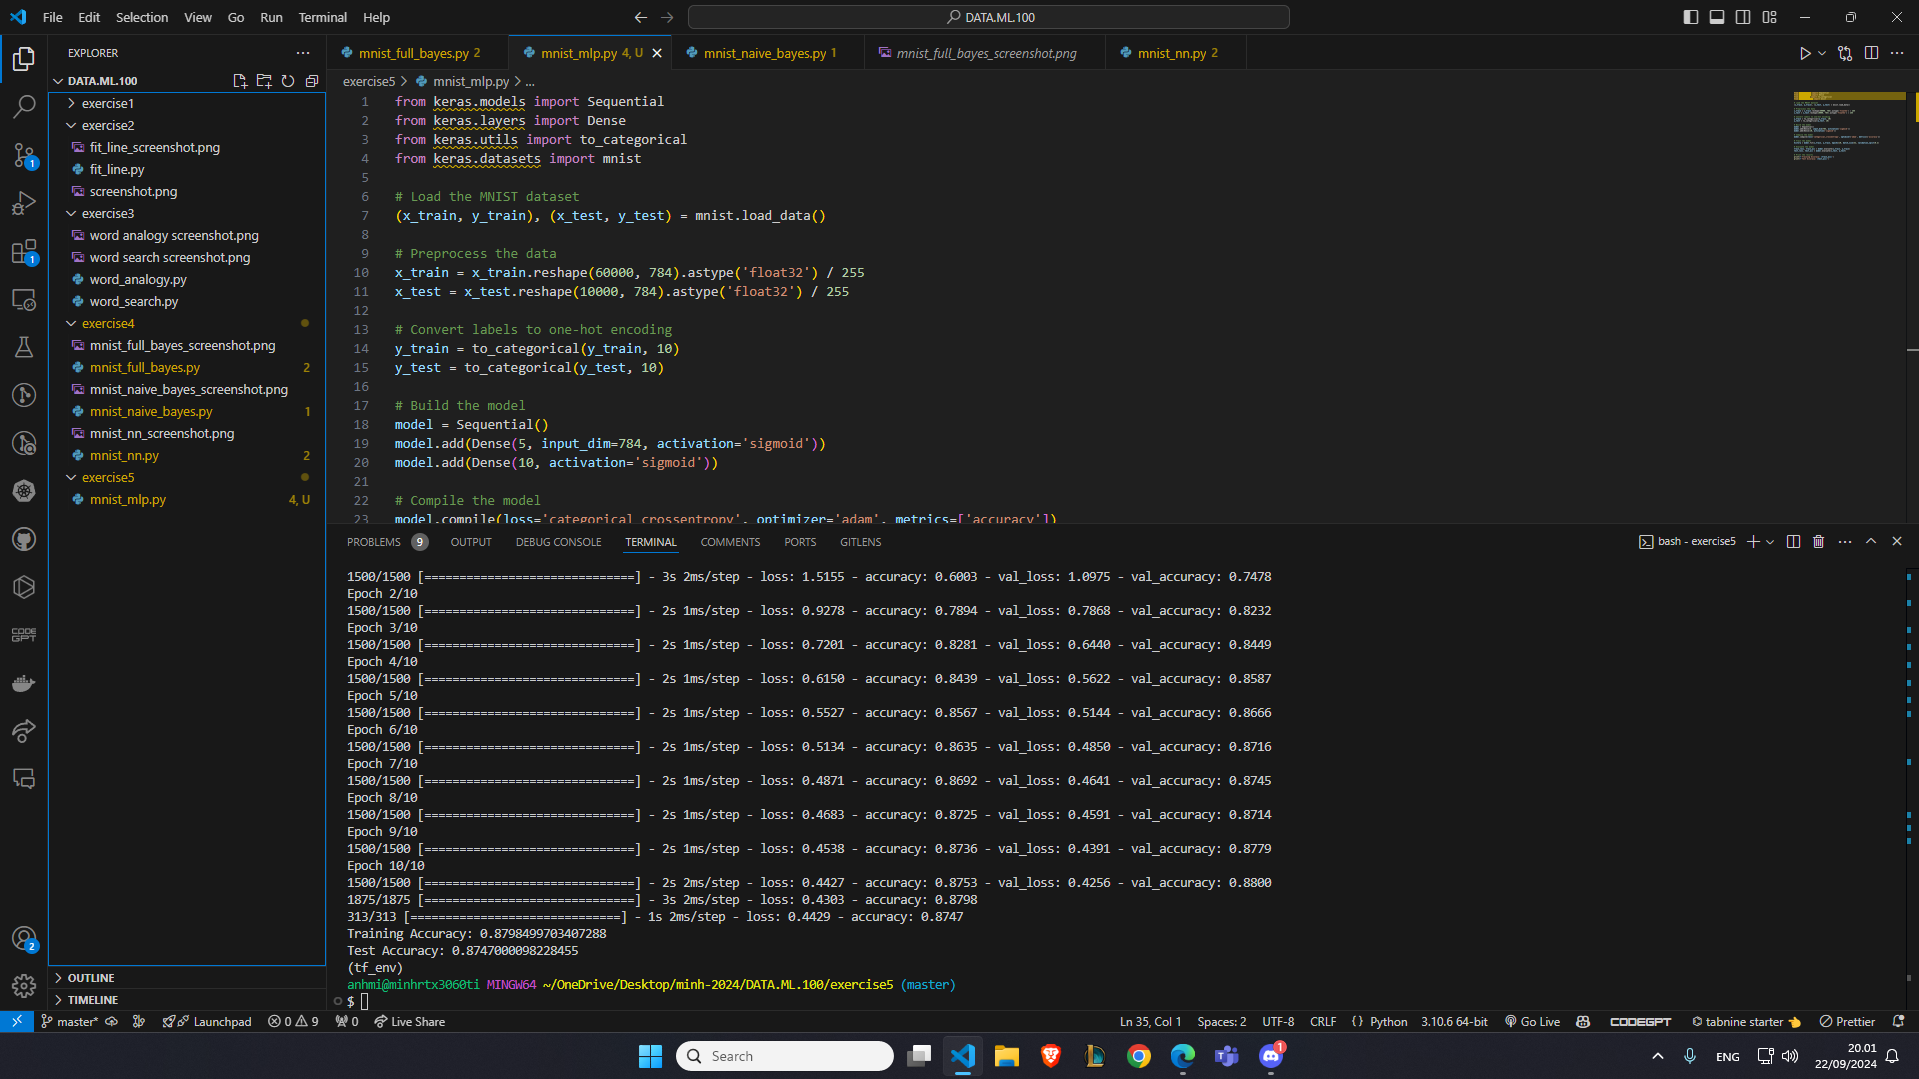
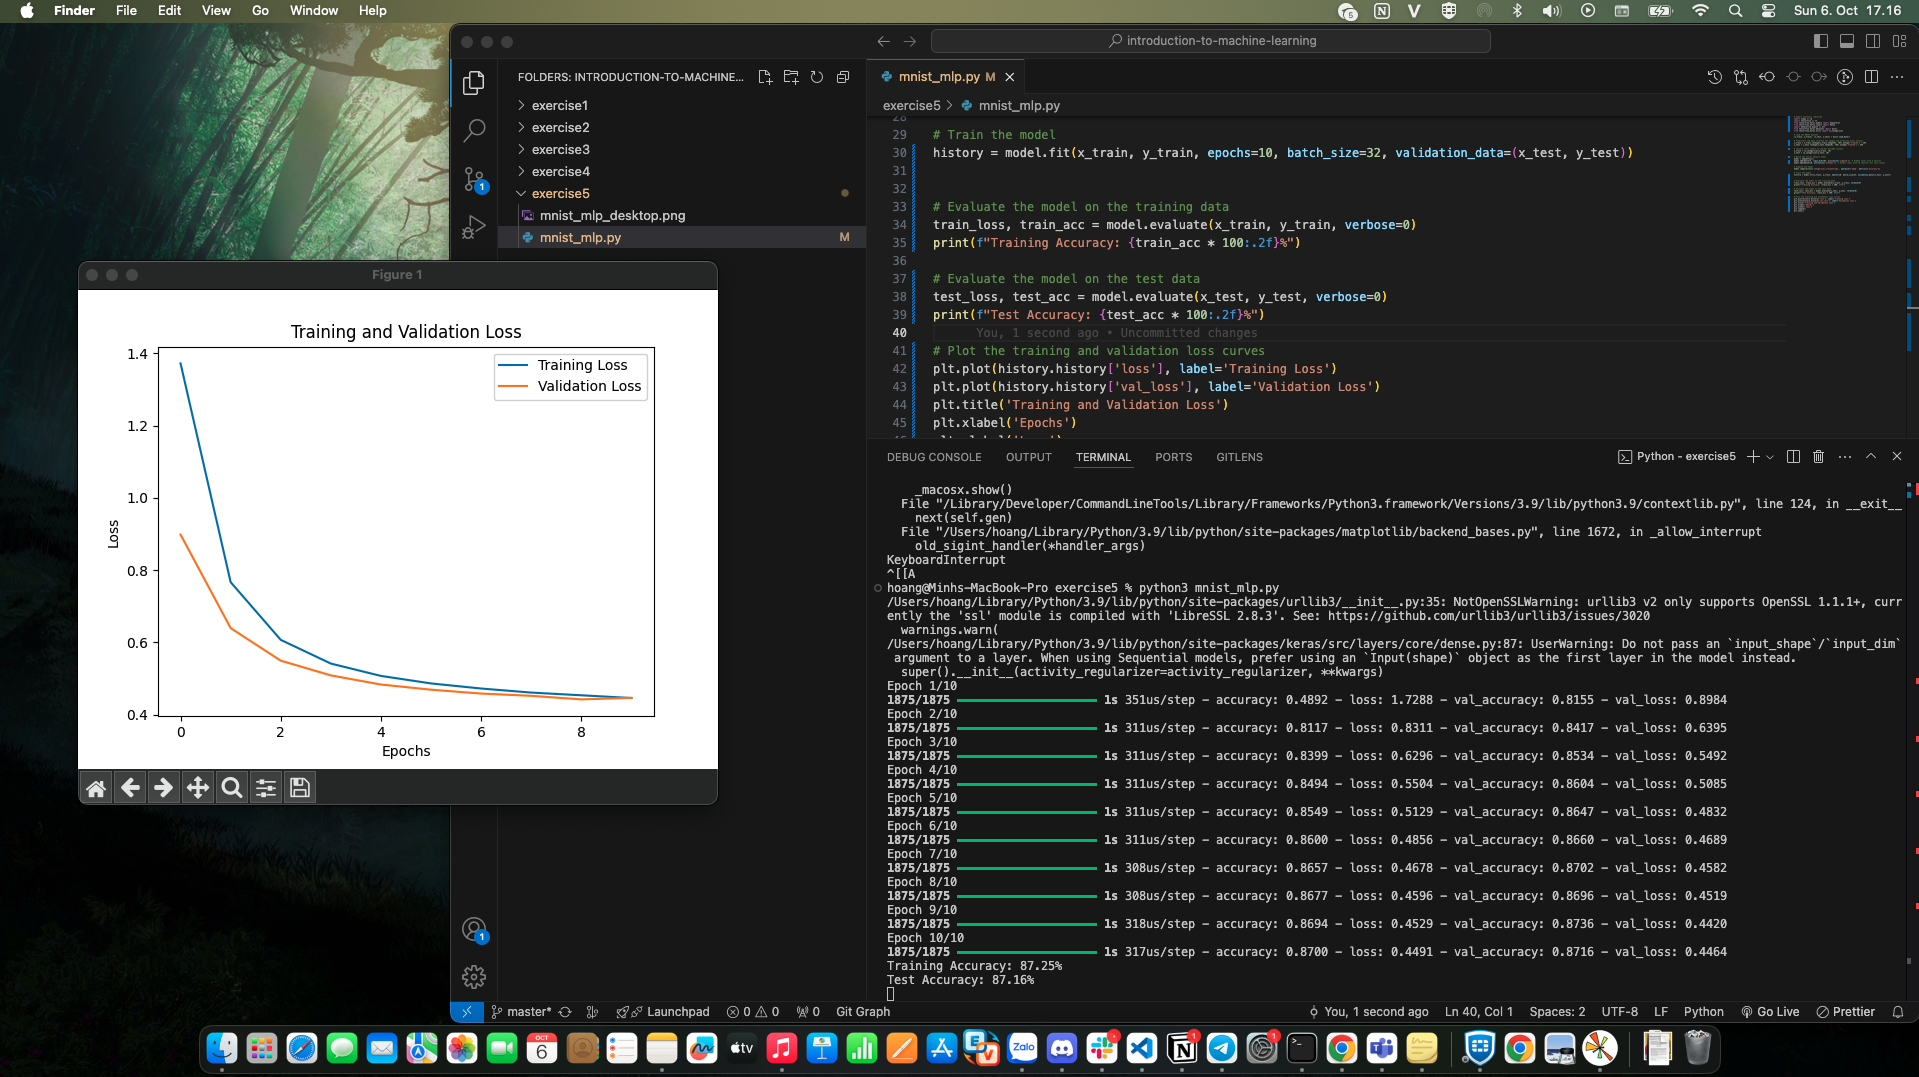
updated exercise 5

diff --git a/exercise5/mnist_mlp.py b/exercise5/mnist_mlp.py
@@ -1,34 +1,48 @@
-from keras.models import Sequential
-from keras.layers import Dense
-from keras.utils import to_categorical
-from keras.datasets import mnist
+# Import necessary libraries
+import numpy as np
+import tensorflow as tf
+from tensorflow.keras.models import Sequential
+from tensorflow.keras.layers import Dense
+import matplotlib.pyplot as plt
+from tensorflow.keras.datasets import mnist
+from tensorflow.keras.utils import to_categorical
 
 # Load the MNIST dataset
 (x_train, y_train), (x_test, y_test) = mnist.load_data()
 
-# Preprocess the data
-x_train = x_train.reshape(60000, 784).astype('float32') / 255
-x_test = x_test.reshape(10000, 784).astype('float32') / 255
+# Preprocess the data (flatten the images and normalize pixel values)
+x_train = x_train.reshape(x_train.shape[0], 784).astype('float32') / 255
+x_test = x_test.reshape(x_test.shape[0], 784).astype('float32') / 255
 
-# Convert labels to one-hot encoding
+# Convert class labels to one-hot encoded vectors
 y_train = to_categorical(y_train, 10)
 y_test = to_categorical(y_test, 10)
 
-# Build the model
+# Build the neural network model
 model = Sequential()
-model.add(Dense(5, input_dim=784, activation='sigmoid'))
-model.add(Dense(10, activation='sigmoid'))
+model.add(Dense(5, input_dim=784, activation='sigmoid'))  # Hidden layer with 5 neurons
+model.add(Dense(10, activation='softmax'))  # Output layer with 10 neurons (for each class)
 
 # Compile the model
 model.compile(loss='categorical_crossentropy', optimizer='adam', metrics=['accuracy'])
 
 # Train the model
-history = model.fit(x_train, y_train, epochs=10, batch_size=32, validation_split=0.2)
+history = model.fit(x_train, y_train, epochs=10, batch_size=32, validation_data=(x_test, y_test))
 
-# Evaluate the model
-train_loss, train_acc = model.evaluate(x_train, y_train)
-test_loss, test_acc = model.evaluate(x_test, y_test)
 
-# Print the results
-print(f'Training Accuracy: {train_acc}')
-print(f'Test Accuracy: {test_acc}')
+# Evaluate the model on the training data
+train_loss, train_acc = model.evaluate(x_train, y_train, verbose=0)
+print(f"Training Accuracy: {train_acc * 100:.2f}%")
+
+# Evaluate the model on the test data
+test_loss, test_acc = model.evaluate(x_test, y_test, verbose=0)
+print(f"Test Accuracy: {test_acc * 100:.2f}%")
+
+# Plot the training and validation loss curves
+plt.plot(history.history['loss'], label='Training Loss')
+plt.plot(history.history['val_loss'], label='Validation Loss')
+plt.title('Training and Validation Loss')
+plt.xlabel('Epochs')
+plt.ylabel('Loss')
+plt.legend()
+plt.show()
